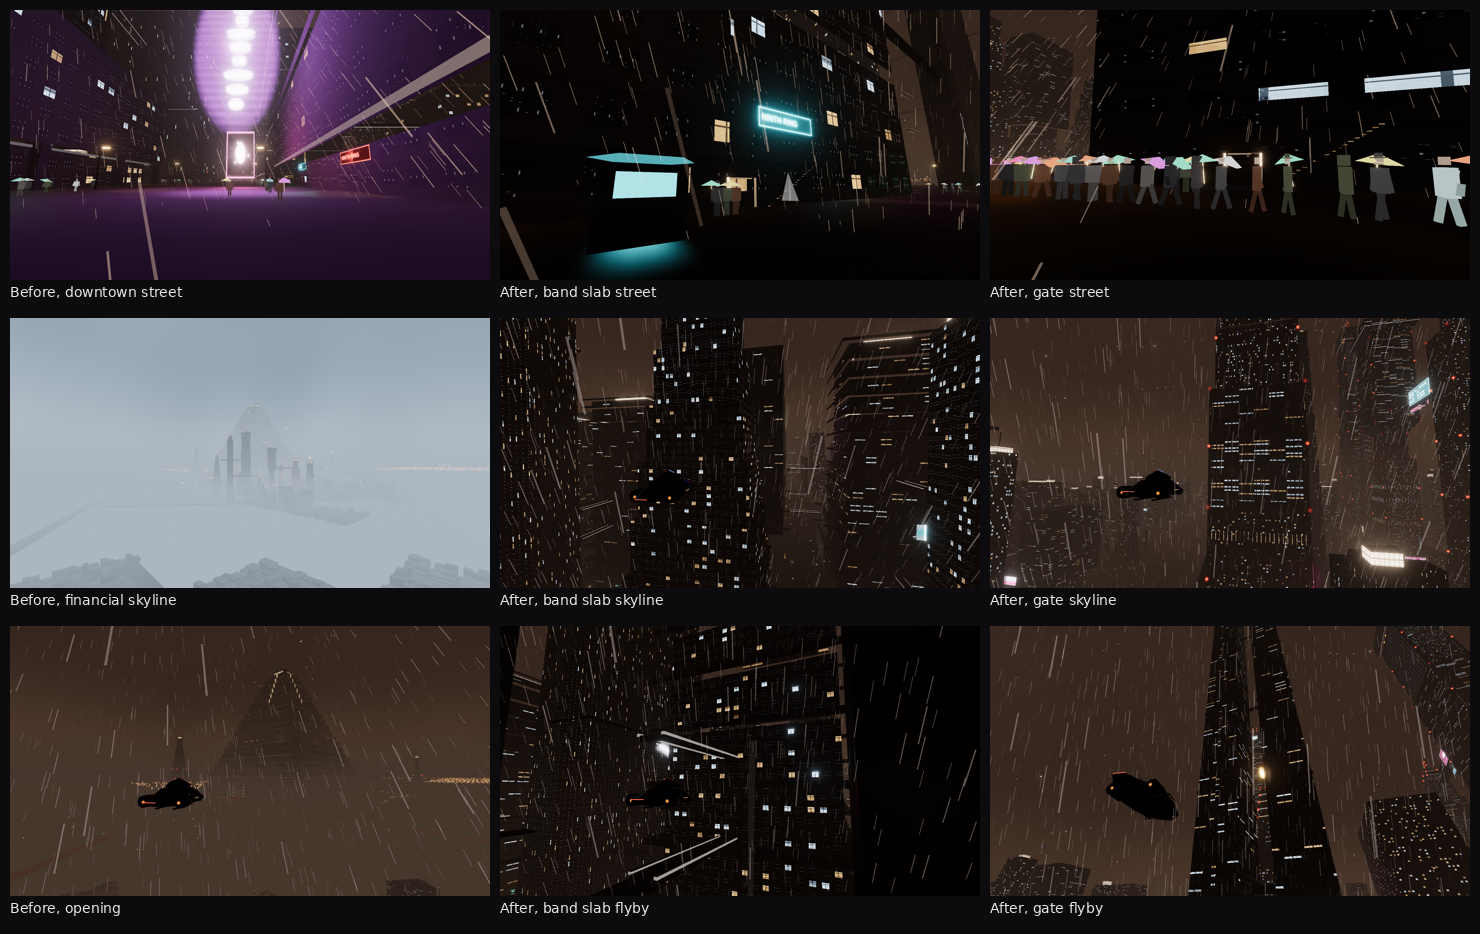
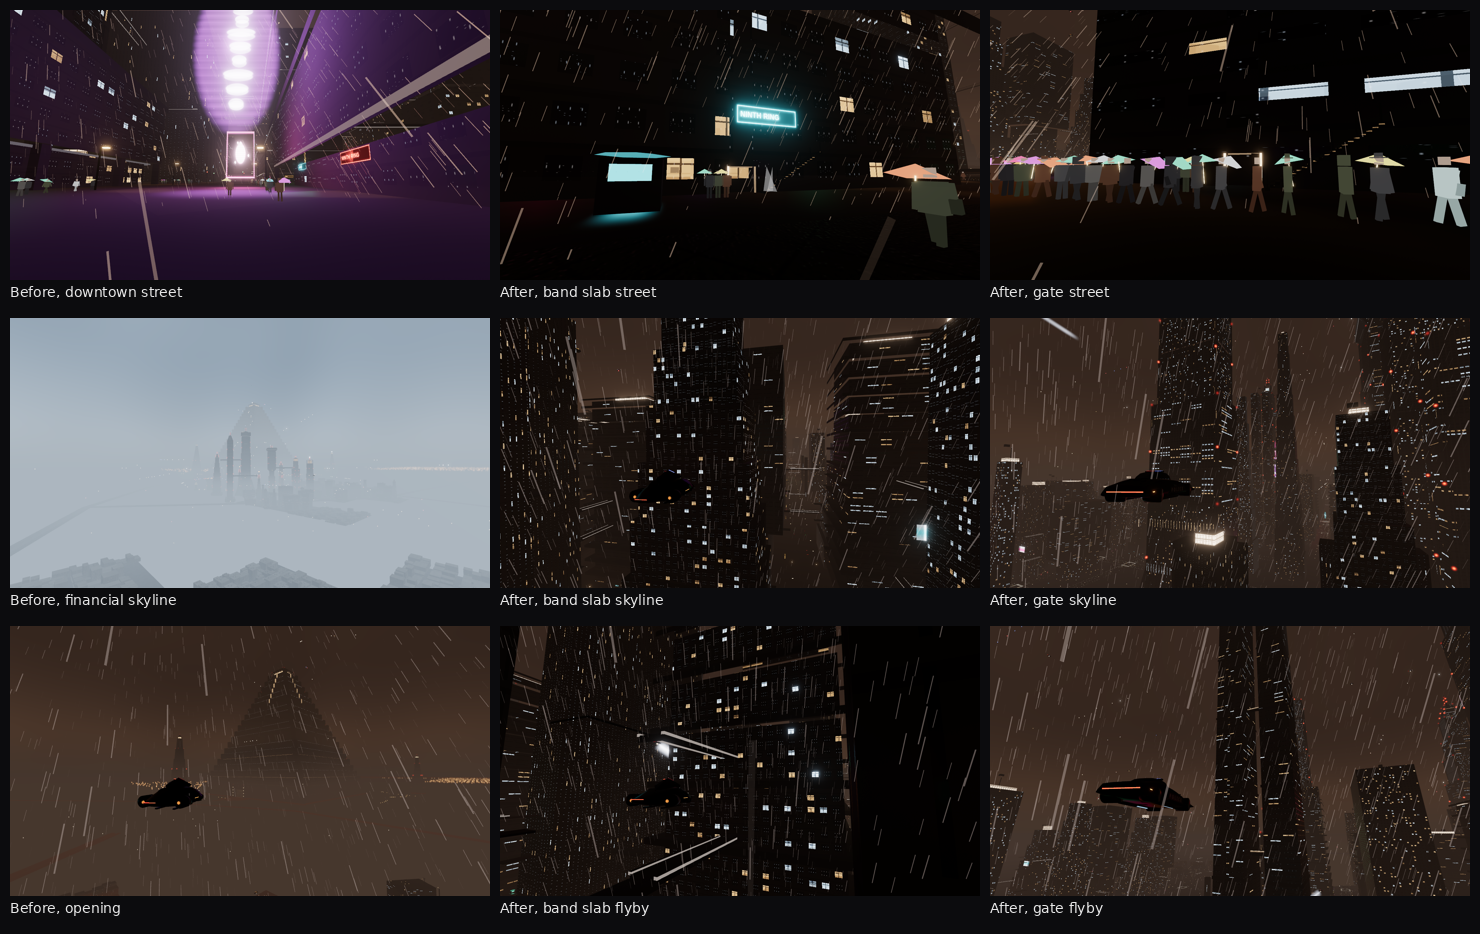
Show the monolith slit and the holo ad from the street.
The slit is a glow on the door face, the shaft billboard faces the same way, and the night cameras hide coats that were standing against the lens.

diff --git a/docs/buildings/b1-2026-10-11.html b/docs/buildings/b1-2026-10-11.html
@@ -75,7 +75,7 @@
   </table>
 
   <h2>Lights</h2>
-  <p>The lighting registry is still not on main after the rebase onto the ground-vehicle commit. Every glow on these towers is declared in <code>src/world/buildings/lights.ts</code> (<code>LIGHT_ADAPTER = 'b1-local'</code>): door soffit, door jambs, crown, obstruction tip, ad face, the gate-bridge edge, and the stair-edge line. The monolith slit sits on the street face, one storey above the door, so the dark taper reads at night. The Caldera Step base uses the same megablock grid as the setbacks above it. The jambs sit just outside the 2.2 m opening so the doorway reads at night. A later lighting pass can map those roles without searching the recipes.</p>
+  <p>The lighting registry is still not on main after the rebase onto the ground-vehicle commit. Every glow on these towers is declared in <code>src/world/buildings/lights.ts</code> (<code>LIGHT_ADAPTER = 'b1-local'</code>): door soffit, door jambs, crown, obstruction tip, ad face, the gate-bridge edge, and the stair-edge line. The monolith slit sits on the street face, one storey above the door, so the dark taper reads at night. The holo shaft’s ad face is on that same street side. The Caldera Step base uses the same megablock grid as the setbacks above it. The jambs sit just outside the 2.2 m opening so the doorway reads at night. A later lighting pass can map those roles without searching the recipes.</p>
 
   <h2>Silhouette scores</h2>
   <p>Scored against original envelope diagrams (a slab, a step pyramid, a taper, a twin gate, a top-heavy bar). Not against film frames. Best side for each family:</p>

diff --git a/src/world/buildings/recipes.ts b/src/world/buildings/recipes.ts
@@ -248,8 +248,8 @@ function monolith(d: Draft, spec: TowerSpec, H: number, y0: number, door: boolea
   // It belongs on the street face, starting one storey above the door.
   const slitH = Math.min(H * 0.7, Math.max(12, H - 6));
   addBox(d, {
-    s: faceS - 0.2, t: faceW * 0.22, lb: 1.8, la: 0.9, h: slitH, base: y0 + STOREY,
-    style: Style.Slit, lit: 0.62, tint: 1.05, detail: 0, role: 'mass',
+    s: faceS - 0.35, t: faceW * 0.22, lb: 2.4, la: 0.7, h: slitH, base: y0 + STOREY,
+    style: Style.Glow, lit: 0.72, tint: 1.15, detail: 0, role: 'mass',
   });
   glowCrown(d, 0, 0, spec.w * 0.12, spec.d * 0.12, y0 + H, 5);
 }
@@ -303,7 +303,8 @@ function holoShaft(d: Draft, spec: TowerSpec, H: number, y0: number, door: boole
   const ad = LIGHT_ROLES.adFace;
   const adH = Math.min(shaftH * 0.42, variant === 2 ? 48 : 36);
   const adW = Math.min(bw * 0.92, 22);
-  const adS = bd / 2 + 0.22;
+  // Street face (a-), so the ad reads from the door and from the flyby.
+  const adS = -(bd / 2 + 0.22);
   addBox(d, {
     s: adS, t: 0, lb: adW, la: 0.6, h: adH, base: shaftBase + shaftH * 0.28,
     style: ad.style, lit: ad.lit, tint: ad.tint, detail: 0, role: 'mass',
